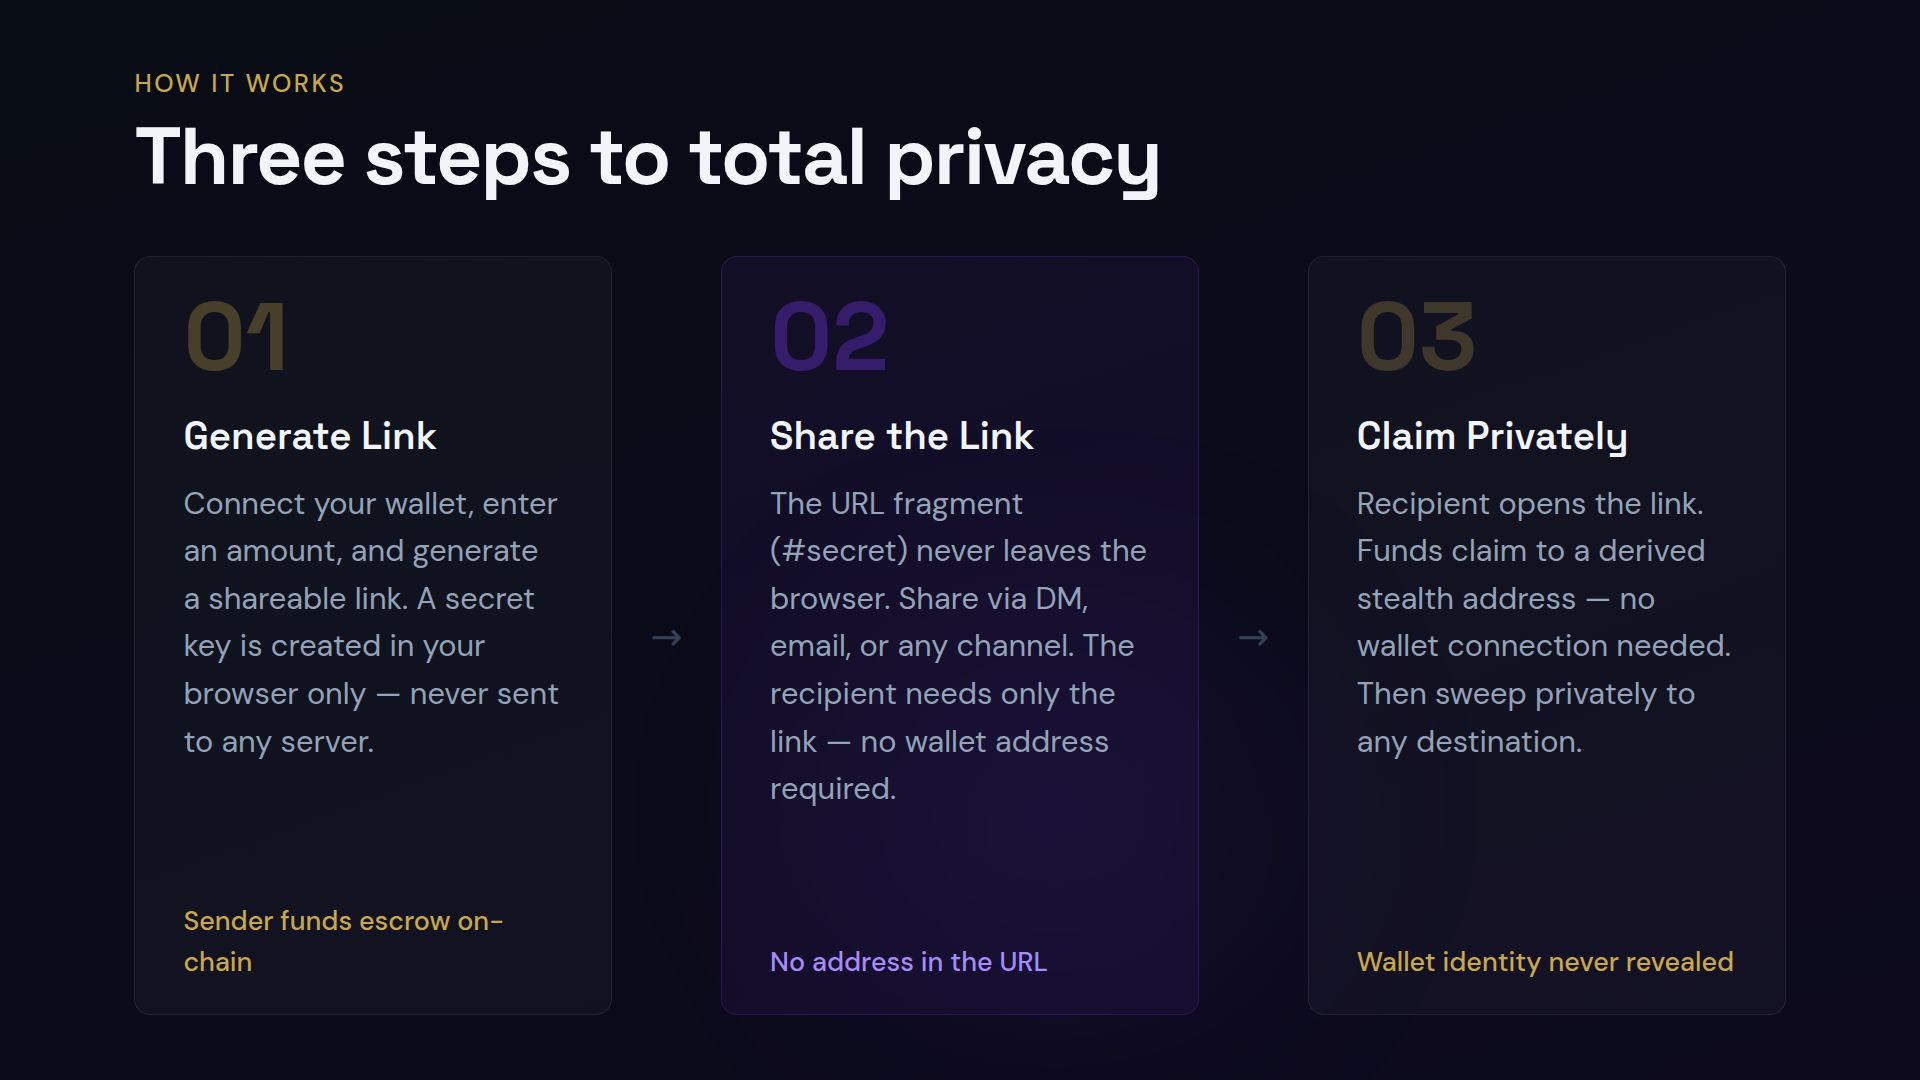
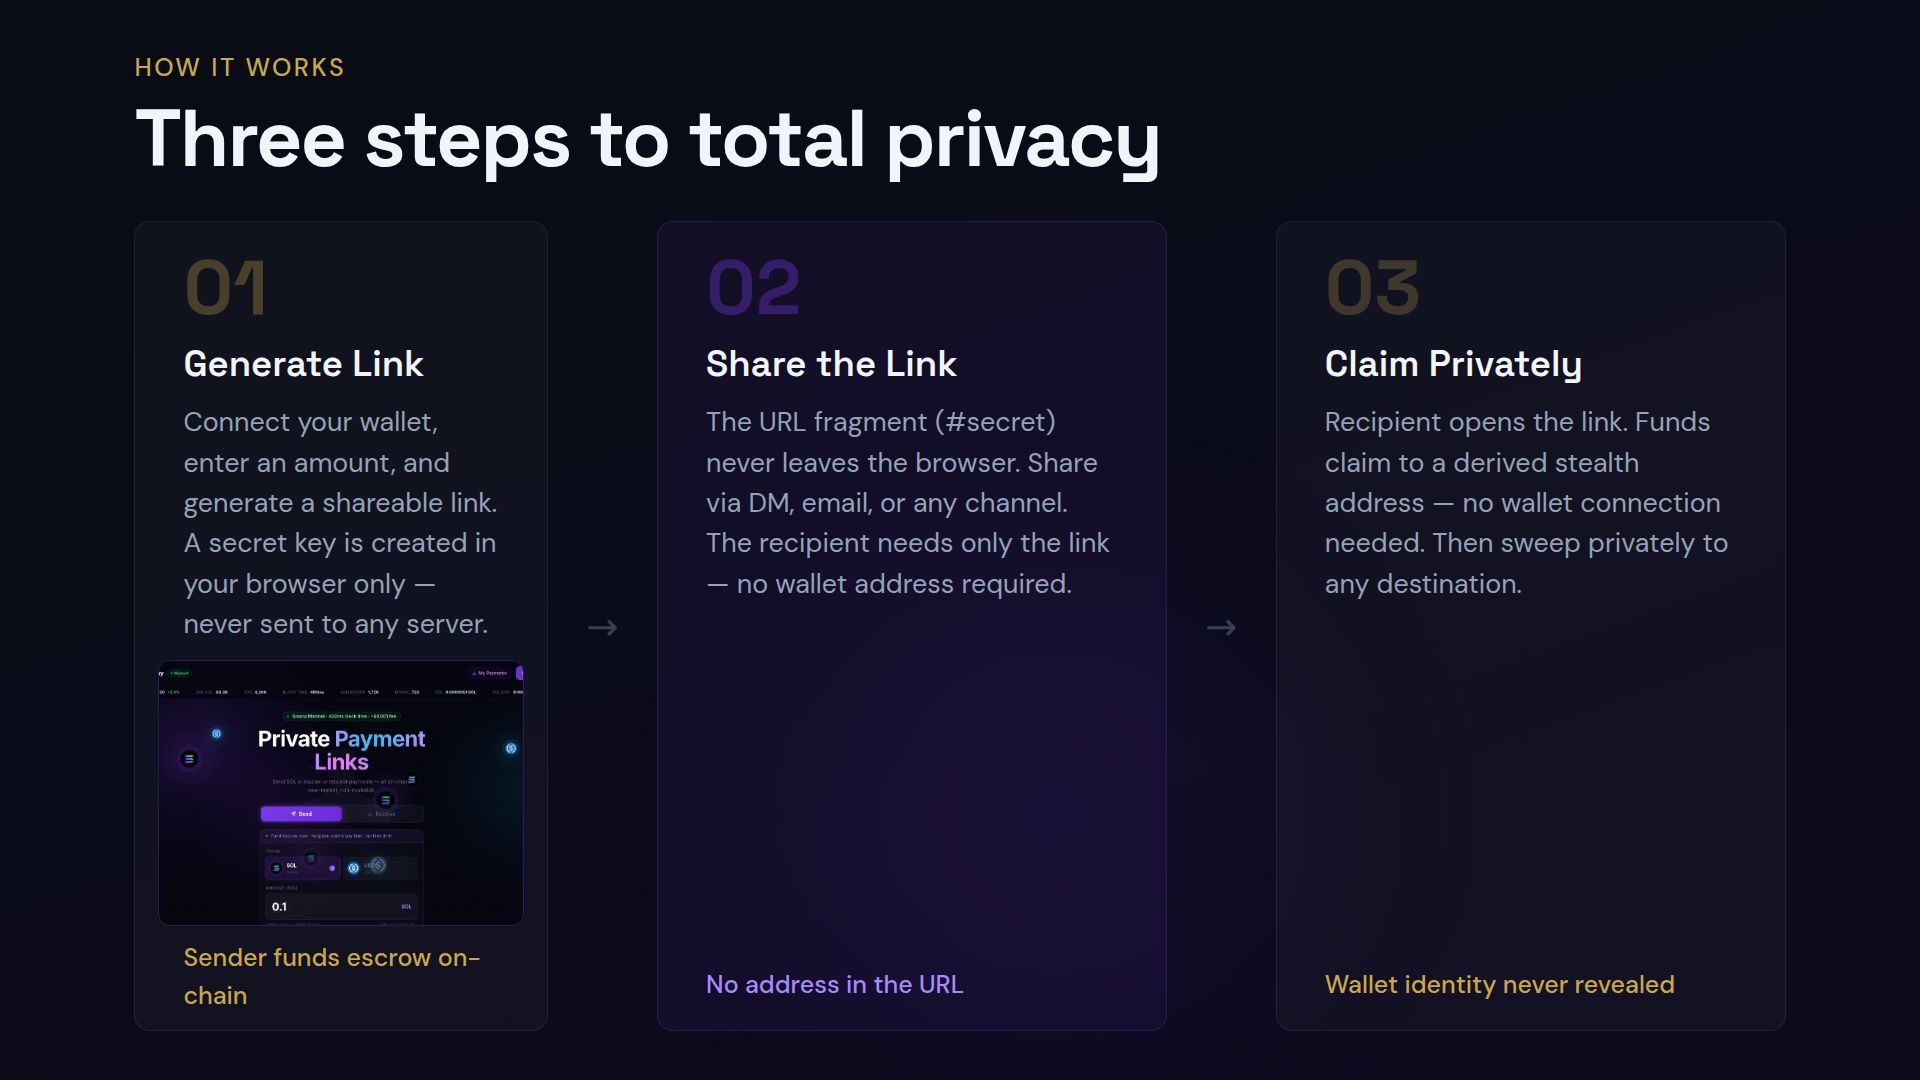
Add dashboard image to show product interface on how it works slide
Update Slide3HowItWorks.tsx to include a screenshot of the dashboard.

Replit-Commit-Author: Agent
Replit-Commit-Session-Id: 01e83a18-043d-4487-a0f6-dac3644db47f
Replit-Commit-Checkpoint-Type: full_checkpoint
Replit-Commit-Event-Id: 5d37101b-df6b-4505-acea-6db5b3852b50
Replit-Commit-Screenshot-Url: https://storage.googleapis.com/screenshot-production-us-central1/bd10ed32-b6f5-4212-9b7f-5e3a8c5075a9/01e83a18-043d-4487-a0f6-dac3644db47f/LdTrxY6
Replit-Helium-Checkpoint-Created: true

diff --git a/artifacts/shadowpay-deck/src/pages/slides/Slide3HowItWorks.tsx b/artifacts/shadowpay-deck/src/pages/slides/Slide3HowItWorks.tsx
@@ -1,3 +1,5 @@
+const base = import.meta.env.BASE_URL;
+
 export default function Slide3HowItWorks() {
   return (
     <div
@@ -8,119 +10,130 @@ export default function Slide3HowItWorks() {
         className="absolute bottom-0 left-[30%] w-[50vw] h-[50vh] rounded-full"
         style={{ background: "radial-gradient(circle, rgba(124,58,237,0.09) 0%, transparent 65%)", filter: "blur(80px)" }}
       />
-      <div className="relative z-10 flex flex-col h-full" style={{ padding: "6vh 7vw" }}>
+      <div className="relative z-10 flex flex-col h-full" style={{ padding: "4.5vh 7vw" }}>
         <div
-          className="font-body font-medium uppercase tracking-widest mb-[1vh]"
+          className="font-body font-medium uppercase tracking-widest mb-[0.8vh]"
           style={{ fontSize: "1.3vw", color: "#C9A84C" }}
         >
           How It Works
         </div>
         <div
-          className="font-display font-bold tracking-tight mb-[5vh]"
+          className="font-display font-bold tracking-tight mb-[3.5vh]"
           style={{ fontSize: "4.2vw", color: "#F1F5F9", lineHeight: 1.1 }}
         >
           Three steps to total privacy
         </div>
-        <div className="flex gap-[2vw] flex-1 items-stretch">
+
+        <div className="flex gap-[2vw] flex-1 items-stretch min-h-0">
+
+          {/* Step 01 — with dashboard image */}
           <div
-            className="flex-1 rounded-2xl flex flex-col"
-            style={{ background: "rgba(255,255,255,0.03)", border: "1px solid rgba(255,255,255,0.07)", padding: "3vh 2.5vw" }}
+            className="flex-1 rounded-2xl flex flex-col overflow-hidden"
+            style={{ background: "rgba(255,255,255,0.03)", border: "1px solid rgba(255,255,255,0.07)" }}
           >
-            <div
-              className="font-display font-bold mb-[2vh]"
-              style={{ fontSize: "5vw", color: "rgba(201,168,76,0.3)", lineHeight: 1 }}
-            >
-              01
+            <div style={{ padding: "2.5vh 2.5vw 1.5vh" }}>
+              <div
+                className="font-display font-bold mb-[1vh]"
+                style={{ fontSize: "4vw", color: "rgba(201,168,76,0.3)", lineHeight: 1 }}
+              >
+                01
+              </div>
+              <div
+                className="font-display font-semibold mb-[1vh]"
+                style={{ fontSize: "1.9vw", color: "#F1F5F9" }}
+              >
+                Generate Link
+              </div>
+              <div
+                className="font-body"
+                style={{ fontSize: "1.4vw", color: "#94A3B8", lineHeight: 1.5 }}
+              >
+                Connect your wallet, enter an amount, and generate a shareable link. A secret key is created in your browser only — never sent to any server.
+              </div>
+            </div>
+            {/* Dashboard screenshot */}
+            <div className="flex-1 overflow-hidden mx-[1.2vw] mb-[1.2vh] rounded-xl" style={{ border: "1px solid rgba(124,58,237,0.25)" }}>
+              <img
+                src={`${base}dashboard.jpg`}
+                alt="ShadowPay dashboard"
+                className="w-full h-full object-cover object-top"
+                style={{ display: "block" }}
+              />
             </div>
             <div
-              className="font-display font-semibold mb-[1.5vh]"
-              style={{ fontSize: "2vw", color: "#F1F5F9" }}
-            >
-              Generate Link
-            </div>
-            <div
-              className="font-body"
-              style={{ fontSize: "1.6vw", color: "#94A3B8", lineHeight: 1.55 }}
-            >
-              Connect your wallet, enter an amount, and generate a shareable link. A secret key is created in your browser only — never sent to any server.
-            </div>
-            <div
-              className="mt-auto pt-[2vh] font-body font-medium"
-              style={{ fontSize: "1.4vw", color: "#C9A84C" }}
+              className="font-body font-medium pb-[1.5vh] px-[2.5vw]"
+              style={{ fontSize: "1.3vw", color: "#C9A84C" }}
             >
               Sender funds escrow on-chain
             </div>
           </div>
-          <div
-            className="flex items-center"
-            style={{ color: "#334155", fontSize: "2vw" }}
-          >
-            →
-          </div>
+
+          <div className="flex items-center" style={{ color: "#334155", fontSize: "2vw" }}>→</div>
+
+          {/* Step 02 */}
           <div
             className="flex-1 rounded-2xl flex flex-col"
-            style={{ background: "rgba(124,58,237,0.07)", border: "1px solid rgba(124,58,237,0.22)", padding: "3vh 2.5vw" }}
+            style={{ background: "rgba(124,58,237,0.07)", border: "1px solid rgba(124,58,237,0.22)", padding: "2.5vh 2.5vw" }}
           >
             <div
-              className="font-display font-bold mb-[2vh]"
-              style={{ fontSize: "5vw", color: "rgba(124,58,237,0.35)", lineHeight: 1 }}
+              className="font-display font-bold mb-[1vh]"
+              style={{ fontSize: "4vw", color: "rgba(124,58,237,0.35)", lineHeight: 1 }}
             >
               02
             </div>
             <div
-              className="font-display font-semibold mb-[1.5vh]"
-              style={{ fontSize: "2vw", color: "#F1F5F9" }}
+              className="font-display font-semibold mb-[1vh]"
+              style={{ fontSize: "1.9vw", color: "#F1F5F9" }}
             >
               Share the Link
             </div>
             <div
               className="font-body"
-              style={{ fontSize: "1.6vw", color: "#94A3B8", lineHeight: 1.55 }}
+              style={{ fontSize: "1.4vw", color: "#94A3B8", lineHeight: 1.5 }}
             >
               The URL fragment (#secret) never leaves the browser. Share via DM, email, or any channel. The recipient needs only the link — no wallet address required.
             </div>
             <div
               className="mt-auto pt-[2vh] font-body font-medium"
-              style={{ fontSize: "1.4vw", color: "#A78BFA" }}
+              style={{ fontSize: "1.3vw", color: "#A78BFA" }}
             >
               No address in the URL
             </div>
           </div>
-          <div
-            className="flex items-center"
-            style={{ color: "#334155", fontSize: "2vw" }}
-          >
-            →
-          </div>
+
+          <div className="flex items-center" style={{ color: "#334155", fontSize: "2vw" }}>→</div>
+
+          {/* Step 03 */}
           <div
             className="flex-1 rounded-2xl flex flex-col"
-            style={{ background: "rgba(255,255,255,0.03)", border: "1px solid rgba(255,255,255,0.07)", padding: "3vh 2.5vw" }}
+            style={{ background: "rgba(255,255,255,0.03)", border: "1px solid rgba(255,255,255,0.07)", padding: "2.5vh 2.5vw" }}
           >
             <div
-              className="font-display font-bold mb-[2vh]"
-              style={{ fontSize: "5vw", color: "rgba(201,168,76,0.25)", lineHeight: 1 }}
+              className="font-display font-bold mb-[1vh]"
+              style={{ fontSize: "4vw", color: "rgba(201,168,76,0.25)", lineHeight: 1 }}
             >
               03
             </div>
             <div
-              className="font-display font-semibold mb-[1.5vh]"
-              style={{ fontSize: "2vw", color: "#F1F5F9" }}
+              className="font-display font-semibold mb-[1vh]"
+              style={{ fontSize: "1.9vw", color: "#F1F5F9" }}
             >
               Claim Privately
             </div>
             <div
               className="font-body"
-              style={{ fontSize: "1.6vw", color: "#94A3B8", lineHeight: 1.55 }}
+              style={{ fontSize: "1.4vw", color: "#94A3B8", lineHeight: 1.5 }}
             >
               Recipient opens the link. Funds claim to a derived stealth address — no wallet connection needed. Then sweep privately to any destination.
             </div>
             <div
               className="mt-auto pt-[2vh] font-body font-medium"
-              style={{ fontSize: "1.4vw", color: "#C9A84C" }}
+              style={{ fontSize: "1.3vw", color: "#C9A84C" }}
             >
               Wallet identity never revealed
             </div>
           </div>
+
         </div>
       </div>
     </div>
